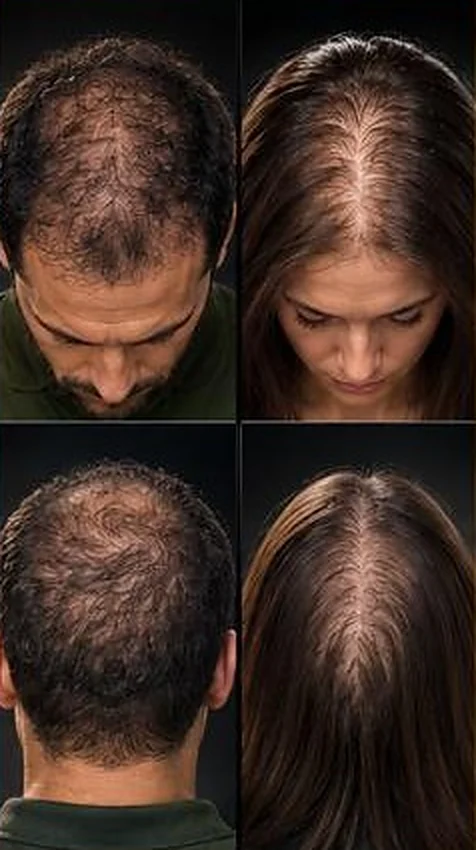
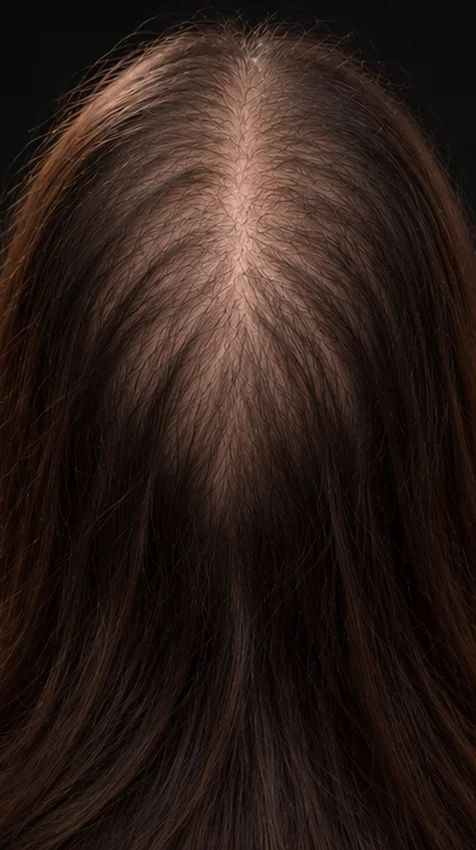
content(quiz): troca a foto de "perda difusa por toda a cabeça" (q12)

diff --git a/public/js/quiz-definition.js b/public/js/quiz-definition.js
@@ -167,7 +167,7 @@
         { id: 'frontal', text: 'Principalmente na frente (linha frontal)', caption: 'Queda mais evidente na linha frontal / entradas.', image: IMG + 'q12-1.webp?v=20261005b', severity: 0.35, finding: 'perda concentrada nas entradas ou na linha frontal' },
         { id: 'topo', text: 'Principalmente no topo (coroa/vértice)', caption: 'Queda mais evidente no topo da cabeça (coroa/vértice).', image: IMG + 'q12-2.webp?v=20261005b', severity: 0.35, finding: 'perda concentrada no topo ou na coroa' },
         { id: 'varias', text: 'Em várias regiões (frente e topo)', caption: 'Perda de cabelo na linha frontal e no topo.', image: IMG + 'q12-3.webp?v=20261005b', severity: 0.85, finding: 'perda em várias regiões da cabeça' },
-        { id: 'difusa', text: 'De forma difusa (por toda a cabeça)', caption: 'Redução geral da densidade dos fios em toda a cabeça.', image: IMG + 'q12-4.webp?v=20261005b', severity: 0.6, finding: 'perda difusa por toda a cabeça' },
+        { id: 'difusa', text: 'De forma difusa (por toda a cabeça)', caption: 'Redução geral da densidade dos fios em toda a cabeça.', image: IMG + 'q12-4.webp?v=20261023', severity: 0.6, finding: 'perda difusa por toda a cabeça' },
         { id: 'nao_identifico', text: 'Não consigo identificar', caption: 'Não percebo áreas específicas de calvície ou tenho dificuldade em identificar.', image: IMG + 'q12-5.webp?v=20261005b', severity: 0.15 }
       ]
     },
